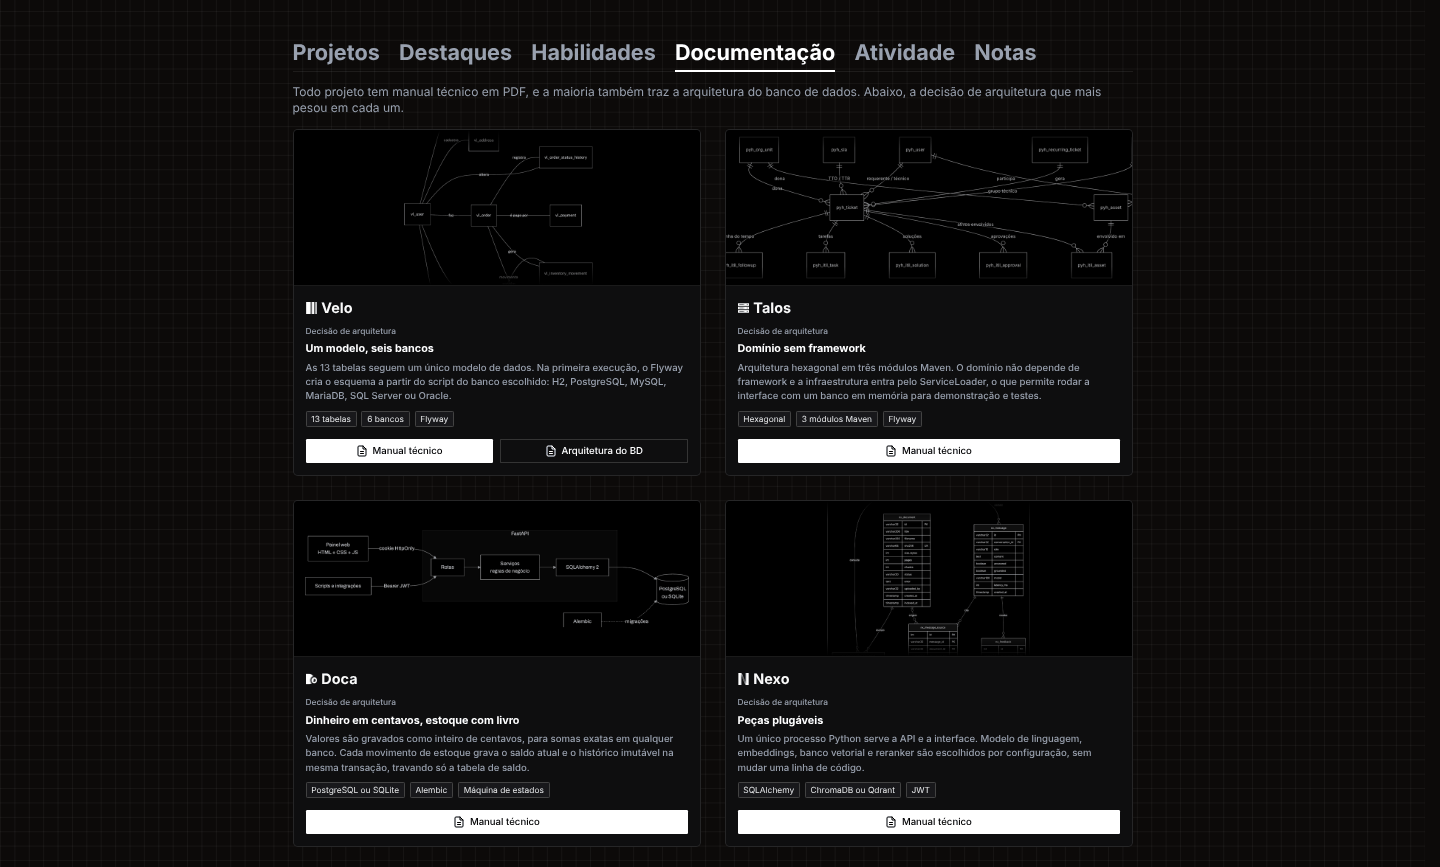
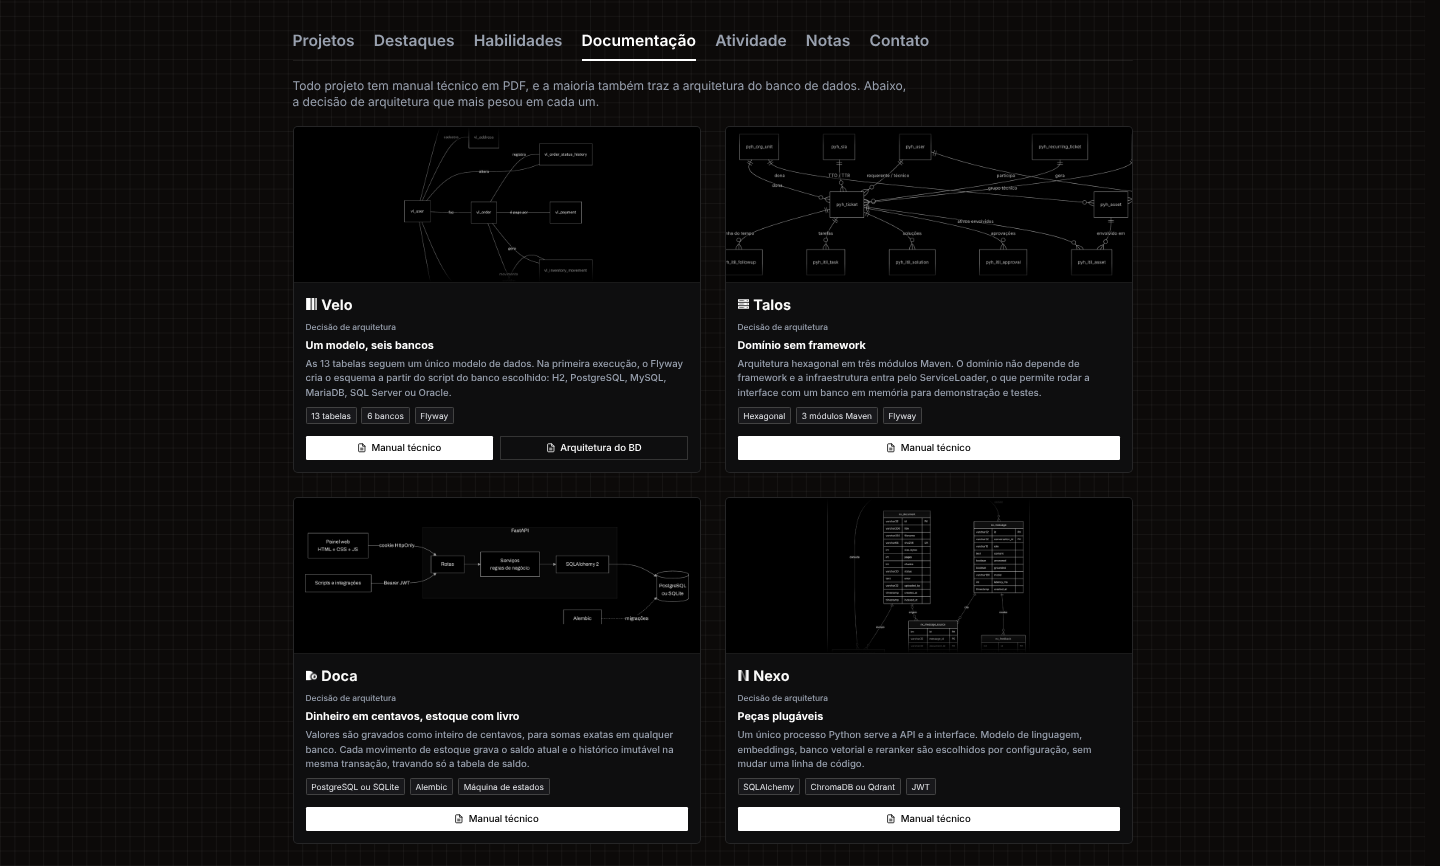
Portfólio 1.34.1

diff --git a/README.md b/README.md
@@ -2,7 +2,7 @@
   <img src="assets/logo-ravel.png" width="200" alt="Erik Pimenta">
 </p>
 
-<h1 align="center">Portfólio<br><sub><sup><sup><sub>Copyright (©) 2026 Erik Pimenta</sub></sup></sup></sub></h1>
+<h1 align="center">Portfólio<br><sub><sup><sup><sub>Copyright (©) 2026 Erik Pimenta. Todos os direitos reservados.</sub></sup></sup></sub></h1>
 
 <p align="center">
 Meu portfólio técnico: quem eu sou, o que estudo e os sistemas que construí do zero, com foco em arquitetura, escalabilidade e consistência de dados, reunidos em uma página só.<br>
@@ -26,7 +26,7 @@ HTML5 · CSS3 · JavaScript (ES6+) · API do GitHub · Responsivo · Zero depend
 <p align="center"><b>Aba Destaques</b></p>
 
 <p align="center">
-  <img src="assets/preview-portfolio-destaques.png?v=2" alt="Prévia da aba Destaques: atalhos do Crivo e do Grafo, cabeçalho do Crivo e a tela principal numa janela">
+  <img src="assets/preview-portfolio-destaques.png?v=3" alt="Prévia da aba Destaques: atalhos do Crivo e do Grafo, cabeçalho do Crivo e a tela principal numa janela">
 </p>
 
 <p align="center"><b>Tema claro, na aba Habilidades</b></p>
@@ -38,7 +38,7 @@ HTML5 · CSS3 · JavaScript (ES6+) · API do GitHub · Responsivo · Zero depend
 <p align="center"><b>Aba Documentação</b></p>
 
 <p align="center">
-  <img src="assets/preview-portfolio-documentacao.png?v=9" alt="Prévia da aba Documentação, com o diagrama do banco e a decisão de arquitetura dos primeiros projetos">
+  <img src="assets/preview-portfolio-documentacao.png?v=10" alt="Prévia da aba Documentação, com o diagrama do banco e a decisão de arquitetura dos primeiros projetos">
 </p>
 
 <p align="center"><b>Aba Atividade</b></p>
@@ -50,7 +50,7 @@ HTML5 · CSS3 · JavaScript (ES6+) · API do GitHub · Responsivo · Zero depend
 <p align="center"><b>Aba Notas</b></p>
 
 <p align="center">
-  <img src="assets/preview-portfolio-notas.png?v=7" alt="Prévia da aba Notas, com as notas em duas colunas e a vitrine de código de cada uma">
+  <img src="assets/preview-portfolio-notas.png?v=8" alt="Prévia da aba Notas, com as notas em duas colunas e a vitrine de código de cada uma">
 </p>
 
 ## O que tem na página
@@ -62,7 +62,7 @@ HTML5 · CSS3 · JavaScript (ES6+) · API do GitHub · Responsivo · Zero depend
 - **Sete abas: Projetos, Destaques, Habilidades, Documentação, Atividade, Notas e Contato**: as seções ficam em abas separadas na mesma página, com sublinhado animado na aba ativa. Ao rolar a página, a fileira de abas **fica presa logo abaixo do topo**, com o mesmo fundo desfocado, e trocar de aba lá embaixo leva ao começo da nova aba. Dá para trocar com o mouse ou pelas setas do teclado, e a página sempre abre na aba Projetos, a não ser que o link já aponte para outra: `ravelroot.github.io/#contato`, `#destaques`, `#habilidades` e assim por diante abrem direto na aba (o endereço volta ao normal em seguida). No celular, a fileira de abas rola para o lado, a aba ativa sempre fica à vista e a borda some aos poucos do lado em que ainda há abas.
   - **Projetos** em cartões com **vitrine no estilo do terminal**: o caminho do repositório no GitHub, a linguagem principal e o ícone do projeto em tamanho grande sobre um pontilhado. Abaixo vêm a categoria em destaque (por exemplo, *Pagamentos e checkout*), o nome, a descrição, as etiquetas de tecnologias e os botões **Código no GitHub** (repositório) e **Manual técnico** (PDF). O Crivo e o Grafo, que têm versão no navegador, abrem com o botão **Abrir demo** e trazem, ao lado da categoria, a etiqueta **Estudo de caso**, que leva direto ao projeto na aba Destaques. Acima da grade ficam os **filtros por linguagem** (Todos, Python, Java, JavaScript, TypeScript, C#, C, C++ e Rust, com o número de projetos em cada um), montados sozinhos a partir das tecnologias; ao filtrar, a etiqueta da linguagem escolhida fica realçada em cada cartão e o contador mostra quantos projetos aparecem. Os cartões **entram um a um** quando surgem na tela (e de novo a cada filtro). Ao passar o mouse, uma luz suave acompanha o cursor, o pontilhado se acende em volta dele, o ícone ganha um leve brilho, e um cursor pisca ao lado do repositório; o cartão não cresce, para o texto continuar nítido. Tudo respeita `prefers-reduced-motion`.
   - **Destaques**: o **Crivo** e o **Grafo** apresentados em detalhe, um depois do outro. No topo, um atalho para cada um (ícone, categoria e versão) rola até ele. Cada projeto abre com a posição (*Destaque 01 / 02*), a categoria, a versão, o nome em tamanho grande, uma frase que resume o projeto e os botões **Abrir no navegador** (versão no GitHub Pages), **Código no GitHub**, **Manual técnico** e **Arquitetura do BD**. Depois vêm: a **tela principal numa janela** com a barra do terminal e o endereço da versão online, que **acompanha o tema da página** (editor escuro no tema escuro, claro no claro); **quatro números** (por exemplo, *263 testes, todos passando* e *37 KB de núcleo em WebAssembly*); **A ideia**, em três parágrafos, ao lado das **tecnologias** agrupadas; uma **galeria de nove telas** com legenda; **Por dentro**, com seis decisões de engenharia numeradas (algumas com um trecho no estilo do terminal, como o RLE do Crivo e as tabelas do documento do Grafo); a **arquitetura** desenhada num terminal; e a tabela de **testes e verificações** com os resultados. Um clique na tela principal ou em qualquer foto abre o **visualizador**: a imagem quase em tela cheia, com legenda, posição (*04 / 10*), botões e setas do teclado para passar (ele dá a volta no fim), deslize no celular, Esc ou clique fora para fechar e o foco de volta na foto. A aba termina com **Dois editores, as mesmas regras** (três maneiras de rodar, builds reproduzíveis, segurança por padrão e documentação para quem chega) e um botão que volta para a aba Projetos. Os blocos sobem e aparecem conforme a página rola, e tudo respeita `prefers-reduced-motion`.
-  - **Habilidades** organizadas por área (Front-end, Back-end, Bancos de Dados, IA & LLMs e Ferramentas), em cartões com um ícone para cada área, o número de itens e etiquetas agrupadas. IA & LLMs se divide em Arquitetura RAG e Modelos e protocolos; Ferramentas, em DevOps e infraestrutura, APIs, Desenvolvimento e Produtividade. Qualquer etiqueta se destaca ao passar o mouse (borda e texto acesos), sem levar a outra aba. Acima dos cartões, os botões **Todas** e **Usadas nos projetos** deixam as demais etiquetas apagadas. Os cartões entram um a um ao aparecer na tela, as etiquetas acendem em cascata e uma luz suave acompanha o mouse.
+  - **Habilidades** organizadas por área (Front-end, Back-end, Bancos de Dados, IA & LLMs e Ferramentas), em cartões com um ícone para cada área, o número de itens e etiquetas agrupadas. IA & LLMs se divide em Arquitetura RAG e Modelos e protocolos; Ferramentas, em DevOps e infraestrutura, APIs, Desenvolvimento e Produtividade. Qualquer etiqueta se destaca ao passar o mouse (borda e texto acesos, com o cursor de clique), sem levar a outra aba. Acima dos cartões, os botões **Todas** e **Usadas nos projetos** deixam as demais etiquetas apagadas. Os cartões entram um a um ao aparecer na tela, as etiquetas acendem em cascata e uma luz suave acompanha o mouse.
   - **Documentação**: um cartão por projeto com a miniatura do diagrama do banco (tirada do próprio PDF, em traço branco no tema escuro e grafite no claro), a decisão de arquitetura que mais pesou, etiquetas com os números principais e botões que abrem o **Manual técnico** e a **Arquitetura do BD** em PDF no GitHub. A miniatura também abre o PDF. O Talos, que ainda não tem o PDF do banco, mostra o diagrama de relacionamentos da área de atendimento (as tabelas em volta de `pyh_ticket`), desenhado a partir do diagrama Mermaid de `docs/banco-de-dados.md` do próprio repositório.
   - **Atividade**: dados ao vivo do GitHub, buscados só quando a aba é aberta. O cartão de contribuições abre no **ano atual**, de 1º de janeiro até hoje, e tem um botão para cada ano desde **2022** (**2026 · 2025 · 2024 · 2023 · 2022**; um botão novo aparece sozinho a cada virada de ano). Os anos sem nenhum commit aparecem com o calendário inteiro vazio, e os anos anteriores à criação da conta nem gastam consulta à API. Para cada ano, mostra o total de contribuições, os dias com contribuições, a maior sequência de dias seguidos e o número de repositórios públicos, com o **gráfico de contribuições** (o mesmo calendário do perfil, em tons neutros que acompanham o tema); no ano em andamento, os dias que ainda não chegaram aparecem vazados, e a nota abaixo do gráfico diz o período exato. Abaixo vêm as **linguagens mais usadas** pela soma do código de todos os repositórios e os **repositórios que receberam commits por último**, com o ícone do projeto quando ele está no portfólio. Passar o mouse sobre um dia ou uma linguagem mostra os detalhes.
   - **Notas**: textos curtos sobre as decisões técnicas por trás dos projetos (o problema, a escolha feita e o que ela custa), em **duas colunas** no computador e uma no celular. Cada cartão abre com uma vitrine no estilo do terminal, com o bloco de código da própria nota (ou uma frase dela, quando a nota não tem código), seguida do tema em destaque, do tempo de leitura (calculado pelo número de palavras), do título, de um resumo e das etiquetas dos projetos citados, com ícone e link para o repositório. Ao passar o mouse, uma luz suave acompanha o cursor, o código sobe um pouco e a seta do botão avança. Quando o número de notas é ímpar, a última ocupa a fileira inteira, com a vitrine ao lado do texto. O botão **Ler nota** (ou um clique na vitrine) abre a nota inteira num painel por cima da página, com a posição dela no topo (por exemplo, 07 / 08), com blocos de código quando ajudam a explicar e os botões **Anterior** e **Próxima** para seguir lendo. O painel fecha no X, com Esc ou com um clique fora dele, e o foco volta ao cartão da última nota lida. As notas atuais: *Fila não é banco de dados* (Turno e Delco), *Dinheiro é inteiro* (Doca), *Concorrência otimista com número de revisão* (Crivo), *Índice invertido: buscar sem LIKE* (Sonda), *RAG: a resposta depende da busca* (Nexo), *Um banco por serviço* (Argo), *Embaralhar sem viés* (Grimório dos Videntes, sem etiqueta de projeto, já que ele não está na aba Projetos) e *Boundary tags: liberar memória em O(1)* (Favo).
@@ -142,6 +142,7 @@ O mesmo e-mail de ativação traz um código aleatório que pode substituir o en
 | Descrição que aparece ao compartilhar o link (WhatsApp, LinkedIn, Discord etc.) | `index.html`, nas tags `<meta name="description">` e `<meta property="og:description">` |
 | Tamanho geral da página (escala) | `css/estilo.css`: o zoom de 75% fica em `zoom: 0.75;` na `.pagina`, dentro do `@media (min-width: 769px)` (a dica do gráfico e o quadriculado do fundo têm os tamanhos reduzidos no mesmo bloco); o tamanho base do texto fica em `font-size: 80%;` no `html` |
 | Lista de projetos e categoria de cada um | `js/projetos.js`, no vetor `PROJETOS` |
+| Botão **Abrir demo** e etiqueta **Estudo de caso** dos cartões de projeto | `js/destaques.js`: o projeto precisa ter um item em `DESTAQUES` (com o mesmo `titulo`), e o endereço da demo fica em `online` |
 | Linguagens que viram filtro na aba Projetos | `js/main.js`, na lista `LINGUAGENS` (só aparecem as que algum projeto usa, em ordem de quantidade) |
 | Habilidades e tecnologias | `js/habilidades.js`, no vetor `HABILIDADES` (o campo `icone` escolhe o desenho do cartão entre `tela`, `servidor`, `banco`, `ia` e `ferramentas`, definidos em `ICONES_AREAS`, em `js/main.js`); uma etiqueta fica marcada como usada quando tem o mesmo nome de uma tecnologia em `js/projetos.js` |
 | Quadriculado do fundo | `css/estilo.css`, na variável `--grade` (uma vez em cada tema) |
@@ -175,7 +176,7 @@ Para incluir um projeto novo, basta acrescentar um item:
 }
 ```
 
-O `icone` é opcional: use um PNG quadrado, branco e com fundo transparente em `assets/projetos/` (ele aparece pequeno nas outras abas e grande na vitrine do cartão). A primeira tecnologia da lista é tratada como a linguagem principal e aparece na vitrine. O botão **Manual técnico** usa o `manual` do item de mesmo `titulo` em `js/documentacao.js`; sem ele, o cartão mostra só **Ver projeto**.
+O `icone` é opcional: use um PNG quadrado, branco e com fundo transparente em `assets/projetos/` (ele aparece pequeno nas outras abas e grande na vitrine do cartão). A primeira tecnologia da lista é tratada como a linguagem principal e aparece na vitrine. O botão **Manual técnico** usa o `manual` do item de mesmo `titulo` em `js/documentacao.js`; sem ele, o cartão mostra só **Código no GitHub**. Se o projeto também estiver em `js/destaques.js`, o cartão ganha a etiqueta **Estudo de caso** e, quando o destaque tem `online`, o botão **Abrir demo**.
 
 Para o projeto aparecer também na aba Documentação, acrescente um item com o **mesmo `titulo`** em `js/documentacao.js` (o ícone vem de `js/projetos.js`):
 
@@ -217,7 +218,7 @@ Para escrever uma nota nova, acrescente um item em `js/notas.js`. Em `corpo`, ca
 Portfolio/
 ├── index.html          estrutura da página
 ├── css/
-│   └── estilo.css      temas escuro e claro, abas, escala de 75%, layout responsivo e animações
+│   └── estilo.css      temas escuro e claro, apresentação, abas fixas, escala de 75%, layout responsivo e animações
 ├── js/
 │   ├── projetos.js     dados dos projetos
 │   ├── habilidades.js  habilidades por área
@@ -244,6 +245,7 @@ Portfolio/
 ├── .github/
 │   ├── workflows/diario.yml  5 commits automáticos por dia, com rodada de reserva
 │   └── atividade.txt         registro dos commits automáticos
+├── LICENSE             todos os direitos reservados
 └── visualizar.bat      abre a página no navegador (Windows)
 ```
 
@@ -251,4 +253,4 @@ Portfolio/
 
 ## Licença
 
-[MIT](LICENSE). Use, copie, altere e distribua à vontade.
+**Todos os direitos reservados.** O código, os textos, as imagens e o design deste portfólio pertencem a Erik Pimenta. Nenhuma licença de uso é concedida: é proibido copiar, usar, modificar, redistribuir ou publicar qualquer parte sem autorização por escrito. Veja os termos completos em [LICENSE](LICENSE). Pedidos de autorização: ravelroot@outlook.com.
